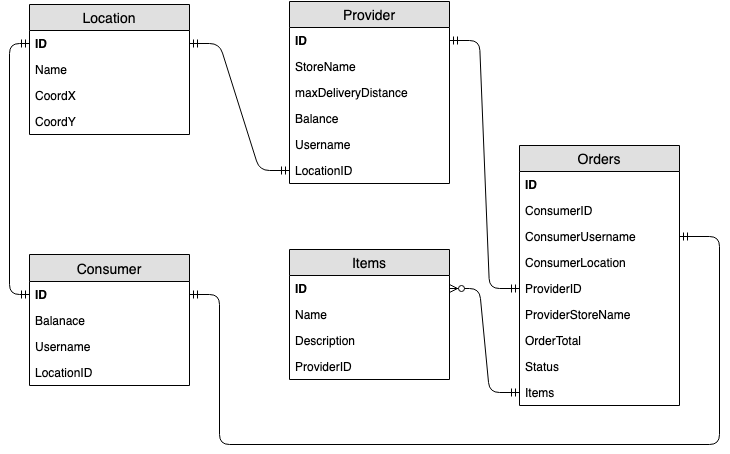
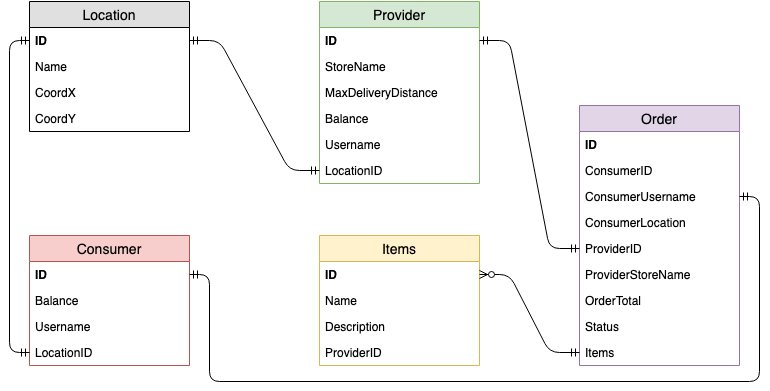
Change diagram in INFORME.md

diff --git a/INFORME.md b/INFORME.md
@@ -17,12 +17,7 @@
 ## Introducción 
 
 En este laboratorio vamos a implementar una API RESTful para un servicio de delivery, al estilo Rappi, PedidosYA,ifood o Deliveroo. En esta API, los proveedores suben sus productos, que los consumidores pueden ver y seleccionar para incluir en un pedido. Una vez que el pedido está finalizado, la aplicación se encarga de cobrarlo al consumidor, entregarlo y pagarle al proveedor el dinero correspondiente.
-
-1. Encapsulamiento
-2. Herencia, clases abstractas y traits.
-3. Sobrecarga de operadores
-4. Polimorfismo
-
+º
 
 ## ¿Qué es una API REST?
 Una API RESTful, también conocida como servicio web RESTful,se basa en la tecnología de transferencia de estado representacional (**REST**). 
